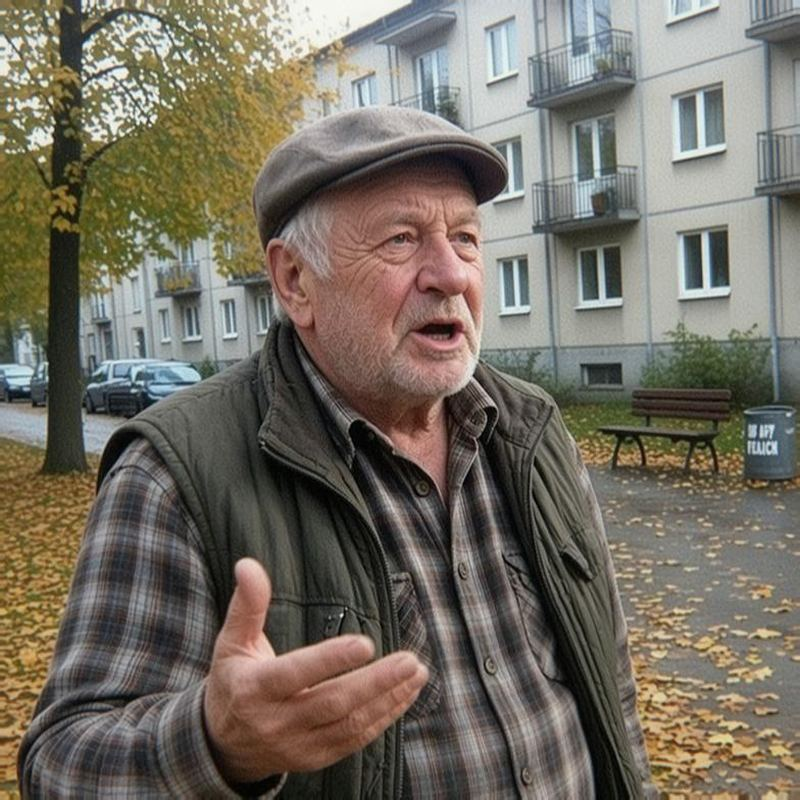
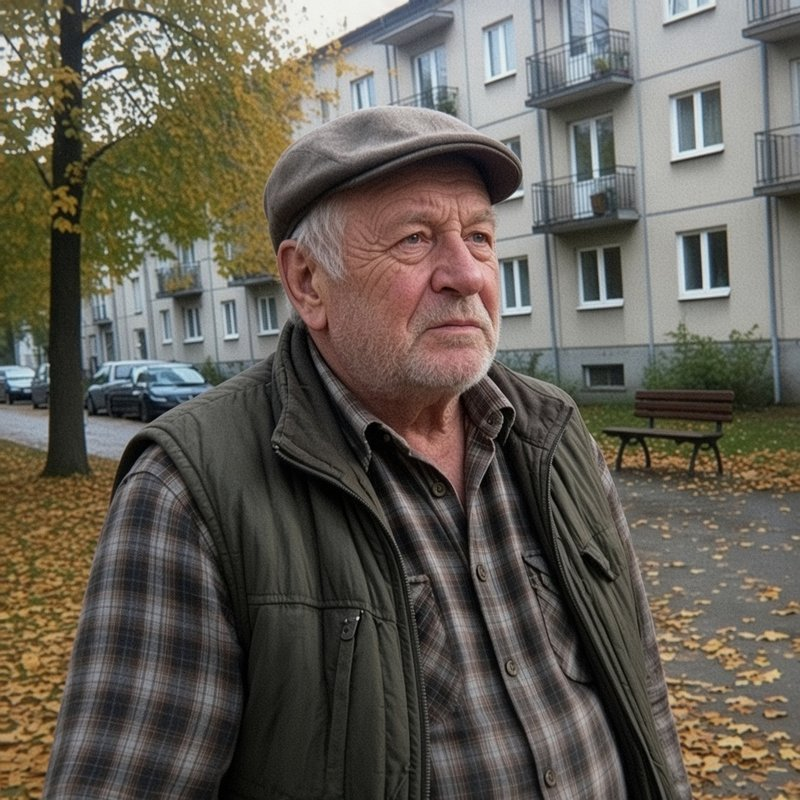
Photo realism rollout (v3 method): 25 images replaced; SW v88

diff --git a/sw.js b/sw.js
@@ -1,5 +1,5 @@
 // Service worker: gra działa offline po pierwszym uruchomieniu.
-const VERSION = 'quiet-is-safer-v87';
+const VERSION = 'quiet-is-safer-v88';
 const FILES = [
   './', './index.html', './manifest.webmanifest', './icon.svg', './icon-192.png', './icon-512.png', './apple-touch-icon.png',
   './css/base.css', './css/apps.css', './css/web.css', './css/os.css', './css/messenger.css',

diff --git a/docs/PLAN-WDROZENIA-I-PRZEKAZANIE.md b/docs/PLAN-WDROZENIA-I-PRZEKAZANIE.md
@@ -827,3 +827,7 @@ Decyzje: klipy podpięte w odtwarzaczach na stronach www (bez nowych kroków fab
 - 18.7c: maja_life1 — rozmyty plakat i gazety (płytka głębia ostrości), zuza_life1 — kadr przycięty bez napisów (edycja generatora zmieniała twarze, odrzucona). SW v86.
 - 18.8: Haptyka — U.vibrate używa @capacitor/haptics 8.0.2 na natywnych platformach (impact/notification/vibrate wg wzorca, iOS wreszcie czuje wibracje), w przeglądarce navigator.vibrate; ustawienie 'Wibracje' wycisza oba. Testy: haptics.test.cjs, text-size.browser.cjs. SW v87.
 - 18.9: build mobilny pakuje 65 skryptów i 9 arkuszy w dist/js/app.bundle.js + dist/css/app.bundle.css (źródła bez zmian). Zimny start (CPU 4x, 4G 150 ms): 3,2 s -> 2,6 s. Test mobile-build pilnuje kolejności i kompletności paczki.
+
+### 2026-10-24 — rollout metody v3 na zdjęcia (SW v88)
+Zamienione (25): portrety bartek, ewa, henryk, ida, igor, kuba, maja, nina, oskar, sylwia, zenon, zuza, ola; life: henryk_life1, kuba_life1, kuba_life2, nina_life1, weronika_life1, weronika_life2, zuza_life1, zuza_most; sceny: e_czytelnia, k_rozwidlenie, s1_lumpeks, s1_mem_kot.
+Zostają stare: janina (zielona dominanta), marta/weronika (dodane okulary), natan (kręcone włosy) — dryf tożsamości; bartek_life1/2, maja_life1, igor_life1/2, ola_life1/2, sylwia_life1, marta_life1, natan_life1, janina_life1 — zmiana treści/tożsamości lub artefakty; g_slady (ślady niewidoczne), e_pudlo, s1_bagaznik (zgubione rekwizyty fabularne), mp_osrodek pominięty. Codex: limit wyczerpany do 31.10 — ocena tylko na oko. Arkusz: /workspace/probki/rollout.jpg.
